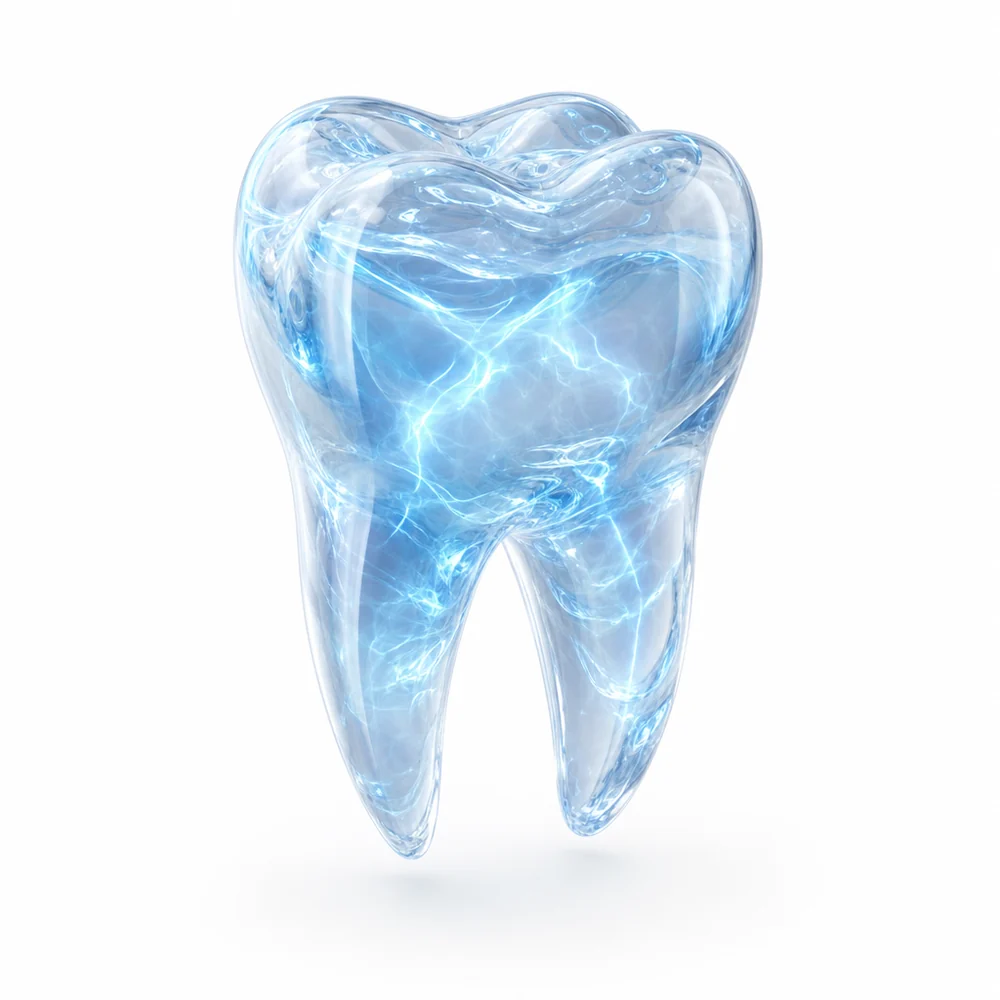
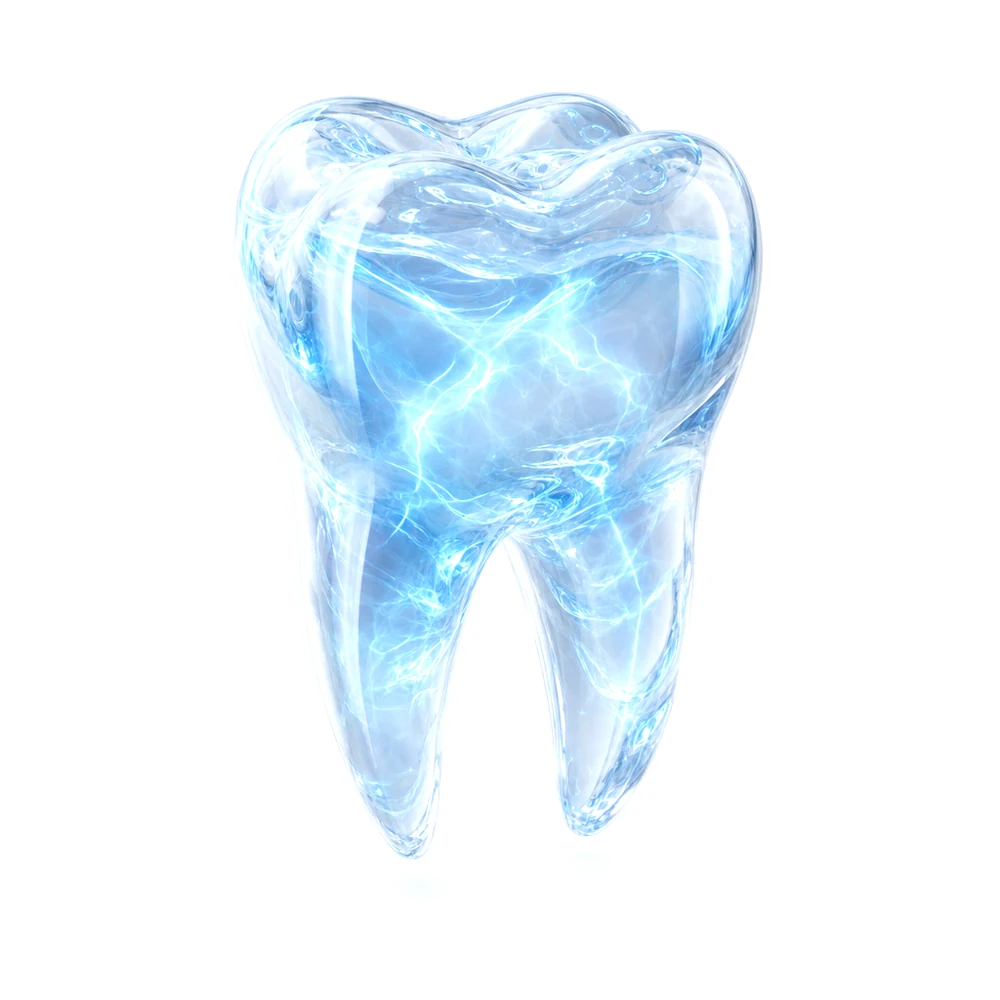
fix(dental-cam): legible sections, a correct arch, an aligned split
Four things the first render exposed, none of which a test would have caught:

The page ground was the deep blue, so every generic section this pack shares with
beauty — booking, hours, contact, footer — rendered dark ink on dark blue. The
ground is light now and the blue bands are painted by the sections that want them.

The lower arch was drawn below its own viewBox: the mirror was applied on top of
an already-mirrored sine rather than instead of it. It is a reflection of the
upper arch now, which is what the two jaws are.

The before half was laid out inside a narrowed box, so the two halves did not
line up across the seam. It is clipped visually instead, at full width.

And fieldset/legend is gone from the planner: a legend inside a bordered fieldset
punches through the border, and floating it to stop that makes everything after
it wrap around the float.

Claude-Session: https://claude.ai/code/session_01UL9uqjKqxQhjSy3mrDu8AY

Changed region(s): [[0.217, 0.093, 0.775, 0.899]]

diff --git a/app/globals.css b/app/globals.css
@@ -778,6 +778,15 @@ h3 {
    breathing, and the tiles deal themselves out underneath. On scroll the molar
    drifts against the copy through --sy, which ScrollScene writes per frame.
    --------------------------------------------------------------------------- */
+.cam-scene,
+.cam-clinic,
+.cam-specialists,
+.cam-ba,
+.cam-panel {
+  --cam-deep: #0b2d5e;
+  --cam-on-deep: #eaf2fd;
+}
+
 .cam-scene {
   position: relative;
   isolation: isolate;
@@ -786,7 +795,7 @@ h3 {
     120% 90% at 50% -12%,
     color-mix(in srgb, var(--accent) 62%, #ffffff) 0%,
     var(--accent) 34%,
-    var(--ground) 100%
+    var(--cam-deep) 100%
   );
   overflow: hidden;
 }
@@ -1166,6 +1175,7 @@ h3 {
 /* ---- clinic band ---- */
 .cam-clinic {
   padding-block: clamp(40px, 6vw, 86px);
+  background: var(--cam-deep);
 }
 .cam-clinic-frame {
   position: relative;
@@ -1336,6 +1346,34 @@ h3 {
 .cam-specialists {
   padding-block: clamp(40px, 6vw, 86px);
   overflow: hidden;
+  background: var(--cam-deep);
+}
+.cam-specialists .cam-title,
+.cam-ba .cam-centred .cam-title {
+  color: var(--cam-on-deep);
+}
+.cam-specialists .cam-intro,
+.cam-ba .cam-intro {
+  color: color-mix(in srgb, var(--cam-on-deep) 70%, transparent);
+}
+.cam-specialists .cam-eyebrow,
+.cam-ba .cam-eyebrow {
+  color: color-mix(in srgb, var(--brand) 30%, #ffffff);
+}
+.cam-specialists .cam-spec-nav button {
+  background: transparent;
+  border-color: color-mix(in srgb, var(--cam-on-deep) 34%, transparent);
+  color: var(--cam-on-deep);
+}
+.cam-specialists .cam-spec-nav button:hover:not(:disabled) {
+  border-color: var(--cam-on-deep);
+  color: #fff;
+}
+.cam-spec-count {
+  color: color-mix(in srgb, var(--cam-on-deep) 62%, transparent);
+}
+.cam-faces img {
+  border-color: var(--cam-deep);
 }
 .cam-spec-grid {
   display: grid;
@@ -1495,9 +1533,9 @@ h3 {
   align-content: start;
 }
 .cam-panel {
-  border: 1px solid var(--line);
+  border: 1px solid color-mix(in srgb, #ffffff 12%, transparent);
   border-radius: var(--radius);
-  background: var(--ground);
+  background: var(--cam-deep);
   color: #fff;
   padding: 18px 20px;
   margin: 0;
@@ -1740,6 +1778,26 @@ h3 {
 /* ---- before / after ---- */
 .cam-ba {
   padding-block: clamp(40px, 6vw, 86px);
+  background: var(--cam-deep);
+}
+.cam-ba .cam-ba-title,
+.cam-ba .cam-ba-flag {
+  color: var(--cam-on-deep);
+}
+.cam-ba .cam-ba-story,
+.cam-ba .cam-ba-did {
+  color: color-mix(in srgb, var(--cam-on-deep) 76%, transparent);
+}
+.cam-ba .cam-metric-label,
+.cam-ba .cam-ba-caption {
+  color: color-mix(in srgb, var(--cam-on-deep) 58%, transparent);
+}
+.cam-ba .cam-tab {
+  color: color-mix(in srgb, var(--cam-on-deep) 62%, transparent);
+}
+.cam-ba .cam-tab.is-on {
+  color: var(--cam-on-deep);
+  border-bottom-color: color-mix(in srgb, var(--brand) 40%, #ffffff);
 }
 .cam-tabs {
   display: flex;
@@ -1834,16 +1892,13 @@ h3 {
 .cam-ba-clip {
   position: absolute;
   inset: 0;
-  width: var(--split);
-  overflow: hidden;
+  clip-path: inset(0 calc(100% - var(--split)) 0 0);
 }
 .cam-ba-clip img {
-  position: absolute;
-  inset: 0;
-  height: 100%;
-  width: auto;
-  max-width: none;
   display: block;
+  width: 100%;
+  height: 100%;
+  object-fit: cover;
 }
 .cam-ba-stamp {
   position: absolute;

diff --git a/components/site/Planner.tsx b/components/site/Planner.tsx
@@ -75,10 +75,10 @@ export function Planner({
 
         <div className="cam-plan-grid">
           <div className="cam-plan-col">
-            <fieldset className="cam-panel">
-              <legend className="cam-panel-title">
+            <div className="cam-panel" role="radiogroup" aria-labelledby="cam-goal-label">
+              <p className="cam-panel-title" id="cam-goal-label">
                 <span className="cam-step">01</span> Ne yaptırmak istiyorsunuz?
-              </legend>
+              </p>
               {section.goals.map((option) => (
                 <label key={option.id} className="cam-radio">
                   <input
@@ -91,12 +91,12 @@ export function Planner({
                   <span>{option.label}</span>
                 </label>
               ))}
-            </fieldset>
+            </div>
 
-            <fieldset className="cam-panel">
-              <legend className="cam-panel-title">
+            <div className="cam-panel" role="group" aria-labelledby="cam-method-label">
+              <p className="cam-panel-title" id="cam-method-label">
                 <span className="cam-step">02</span> Yöntem
-              </legend>
+              </p>
               <div className="cam-chips">
                 {goal.methods.map((method) => (
                   <button
@@ -110,7 +110,7 @@ export function Planner({
                   </button>
                 ))}
               </div>
-            </fieldset>
+            </div>
           </div>
 
           <div className="cam-panel cam-chart">
@@ -218,22 +218,23 @@ export function Planner({
    incisors, and each tooth is rotated to face out of the arch, which is what stops the
    row reading as beads on a string.
    -------------------------------------------------------------------------- */
-const CHART = { cx: 190, cy: 150, rx: 150, ry: 104, from: 198, to: 342 };
+const CHART = { cx: 190, cy: 132, rx: 150, ry: 96, from: 196, to: 344, mirror: 320 };
 
 function toothGeometry(index: number, count: number, lower: boolean) {
   const t = count === 1 ? 0.5 : index / (count - 1);
   const degrees = CHART.from + (CHART.to - CHART.from) * t;
   const radians = (degrees * Math.PI) / 180;
   const x = CHART.cx + CHART.rx * Math.cos(radians);
-  const y = CHART.cy + CHART.ry * Math.sin(radians) * (lower ? -1 : 1);
-  // Distance from the midline, 0 at the central incisors and 7 at the wisdom teeth.
+  const upper = CHART.cy + CHART.ry * Math.sin(radians);
+  // Distance from the midline, 0 at the central incisors and 1 at the wisdom teeth.
   const fromMidline = Math.abs(t - 0.5) * 2;
   return {
     x,
-    y: lower ? y + 150 : y,
-    width: 13 + fromMidline * 9,
-    height: 17 + fromMidline * 5,
-    angle: degrees + 90 + (lower ? 180 : 0),
+    // The lower arch is the upper one reflected, which is what the two jaws are.
+    y: lower ? CHART.mirror - upper : upper,
+    width: 15 + fromMidline * 10,
+    height: 20 + fromMidline * 7,
+    angle: (degrees + 90) * (lower ? -1 : 1),
   };
 }
 

diff --git a/packs/dental/build.ts b/packs/dental/build.ts
@@ -271,7 +271,7 @@ export function buildDentalSite(lead: BuildInput, preset = "cam"): SiteContent {
       },
       {
         type: "clinic",
-        title: "Kliniğimiz",
+        title: `${business.neighborhood}’de ağız ve diş sağlığı`,
         body: `${business.neighborhood} Mahallesi’ndeki kliniğimizde muayeneden implanta, ortodontiden estetik uygulamalara kadar ağız ve diş sağlığınızı tek yerde sürdürüyoruz. Her tedavi önce muayenede planlanır.`,
         image: {
           src: facts.photo,
@@ -348,8 +348,8 @@ export function buildDentalSite(lead: BuildInput, preset = "cam"): SiteContent {
               src: "/stock/dental/whitening-after.webp",
               alt: "Beyazlatma sonrası diş modeli",
             },
-            procedureDate: "Örnek",
-            photoDate: "Örnek",
+            procedureDate: "Mart 2026 (örnek)",
+            photoDate: "Nisan 2026 (örnek)",
             illustration: true,
           },
         ],

diff --git a/packs/dental/preset.ts b/packs/dental/preset.ts
@@ -35,12 +35,17 @@ export const cam: Preset = {
     ],
   },
   tokens: {
-    ground: "#0B2D5E",
+    /**
+     * The page is light and the deep blue is painted on by the sections that want it.
+     * The other way round — a blue `ground` — makes every generic section this pack
+     * shares with beauty (booking, hours, contact, footer) render dark ink on dark blue.
+     */
+    ground: "#EEF4FC",
     surface: "#FFFFFF",
     ink: "#12386B",
     inkSoft: "#43618C",
-    muted: "#7D93B2",
-    line: "#DCE7F5",
+    muted: "#7188A8",
+    line: "#D7E3F3",
     brand: "#1D6FE0",
     brandInk: "#FFFFFF",
     accent: "#2F83E8",

diff --git a/components/site/Clinic.tsx b/components/site/Clinic.tsx
@@ -31,7 +31,7 @@ export function Clinic({ section }: { section: SectionOf<"clinic"> }) {
           <span aria-hidden="true" className="cam-clinic-wash" />
 
           <div className="cam-clinic-copy">
-            <p className="cam-clinic-eyebrow">Kliniğimiz</p>
+            <p className="cam-clinic-eyebrow">Hakkımızda</p>
             <Reveal>
               <h2 className="cam-clinic-title">{section.title}</h2>
               <p className="cam-clinic-body">{section.body}</p>
